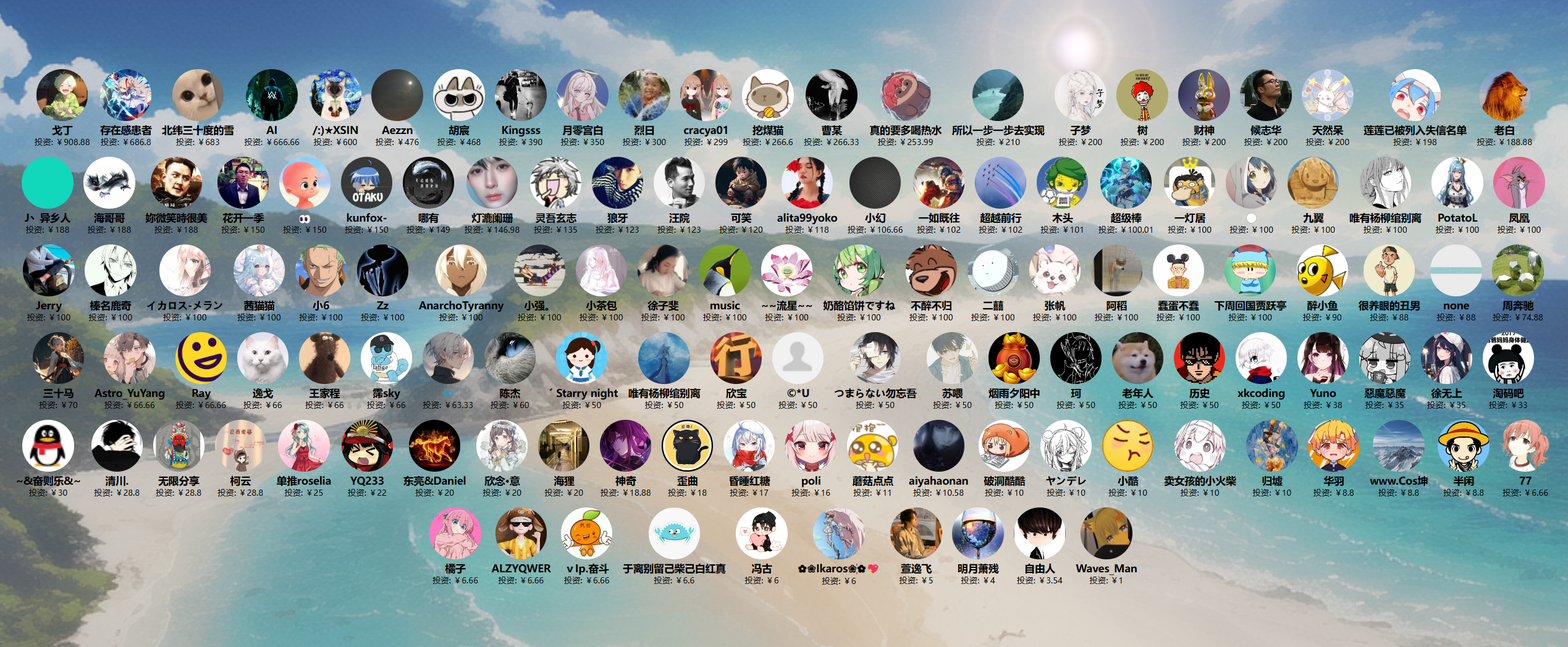
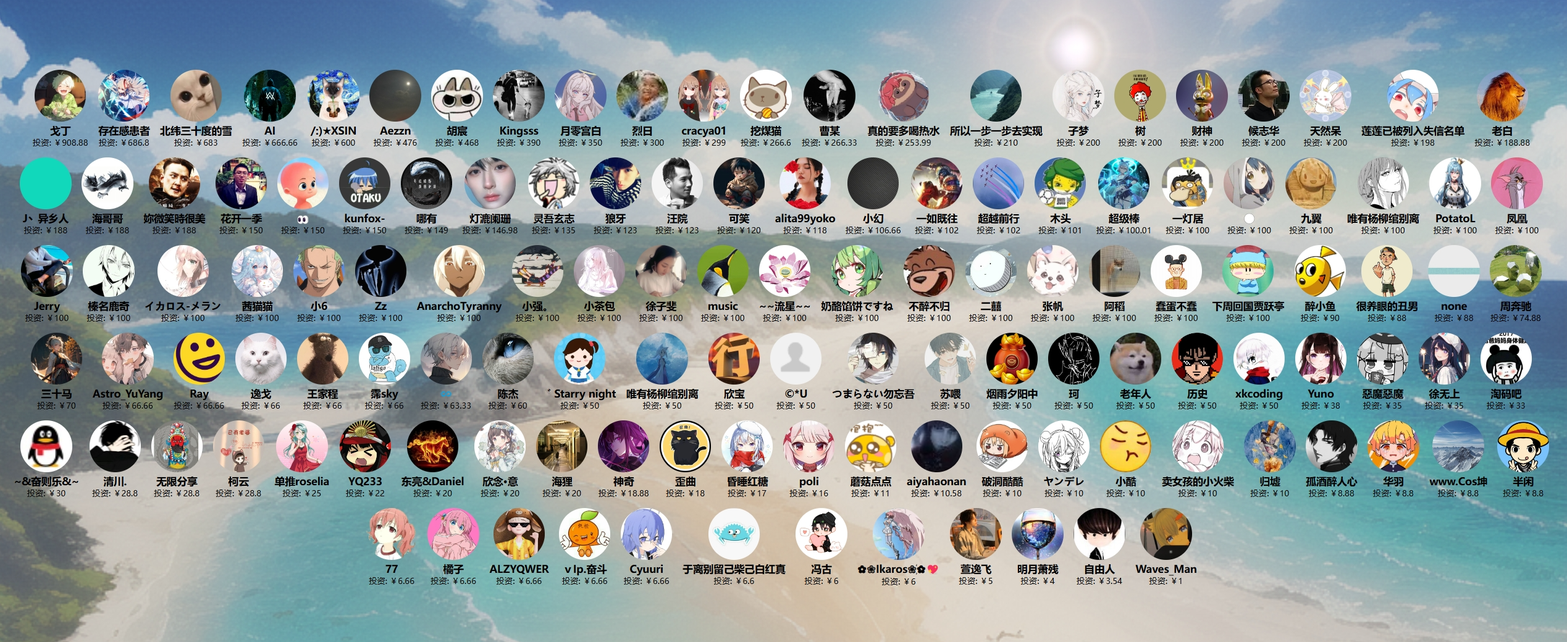
更新投资人

diff --git a/docs/投资人/index.html b/docs/投资人/index.html
@@ -681,6 +681,16 @@
             avatar: "https://images.cnblogs.com/cnblogs_com/ikaros-521/2328032/o_240524074448_AgAABTM-uTjJ0Sx-wWtA_qZ112e9PoOr.png",
             amount: "90"
         },
+        {
+            name: "Cyuuri",
+            avatar: "https://images.cnblogs.com/cnblogs_com/ikaros-521/2328032/o_240709115636_QQ%E5%9B%BE%E7%89%8720240709195534.jpg",
+            amount: "6.66"
+        },
+        {
+            name: "孤酒醉人心",
+            avatar: "https://images.cnblogs.com/cnblogs_com/ikaros-521/2328032/o_240709115852_AgAABTM-uTh5R68ehrRHwLlZ6NOOV01z%20(1).png",
+            amount: "8.88"
+        },
     ];
 
     // 对投资方数据按投资金额（amount）进行降序排序
